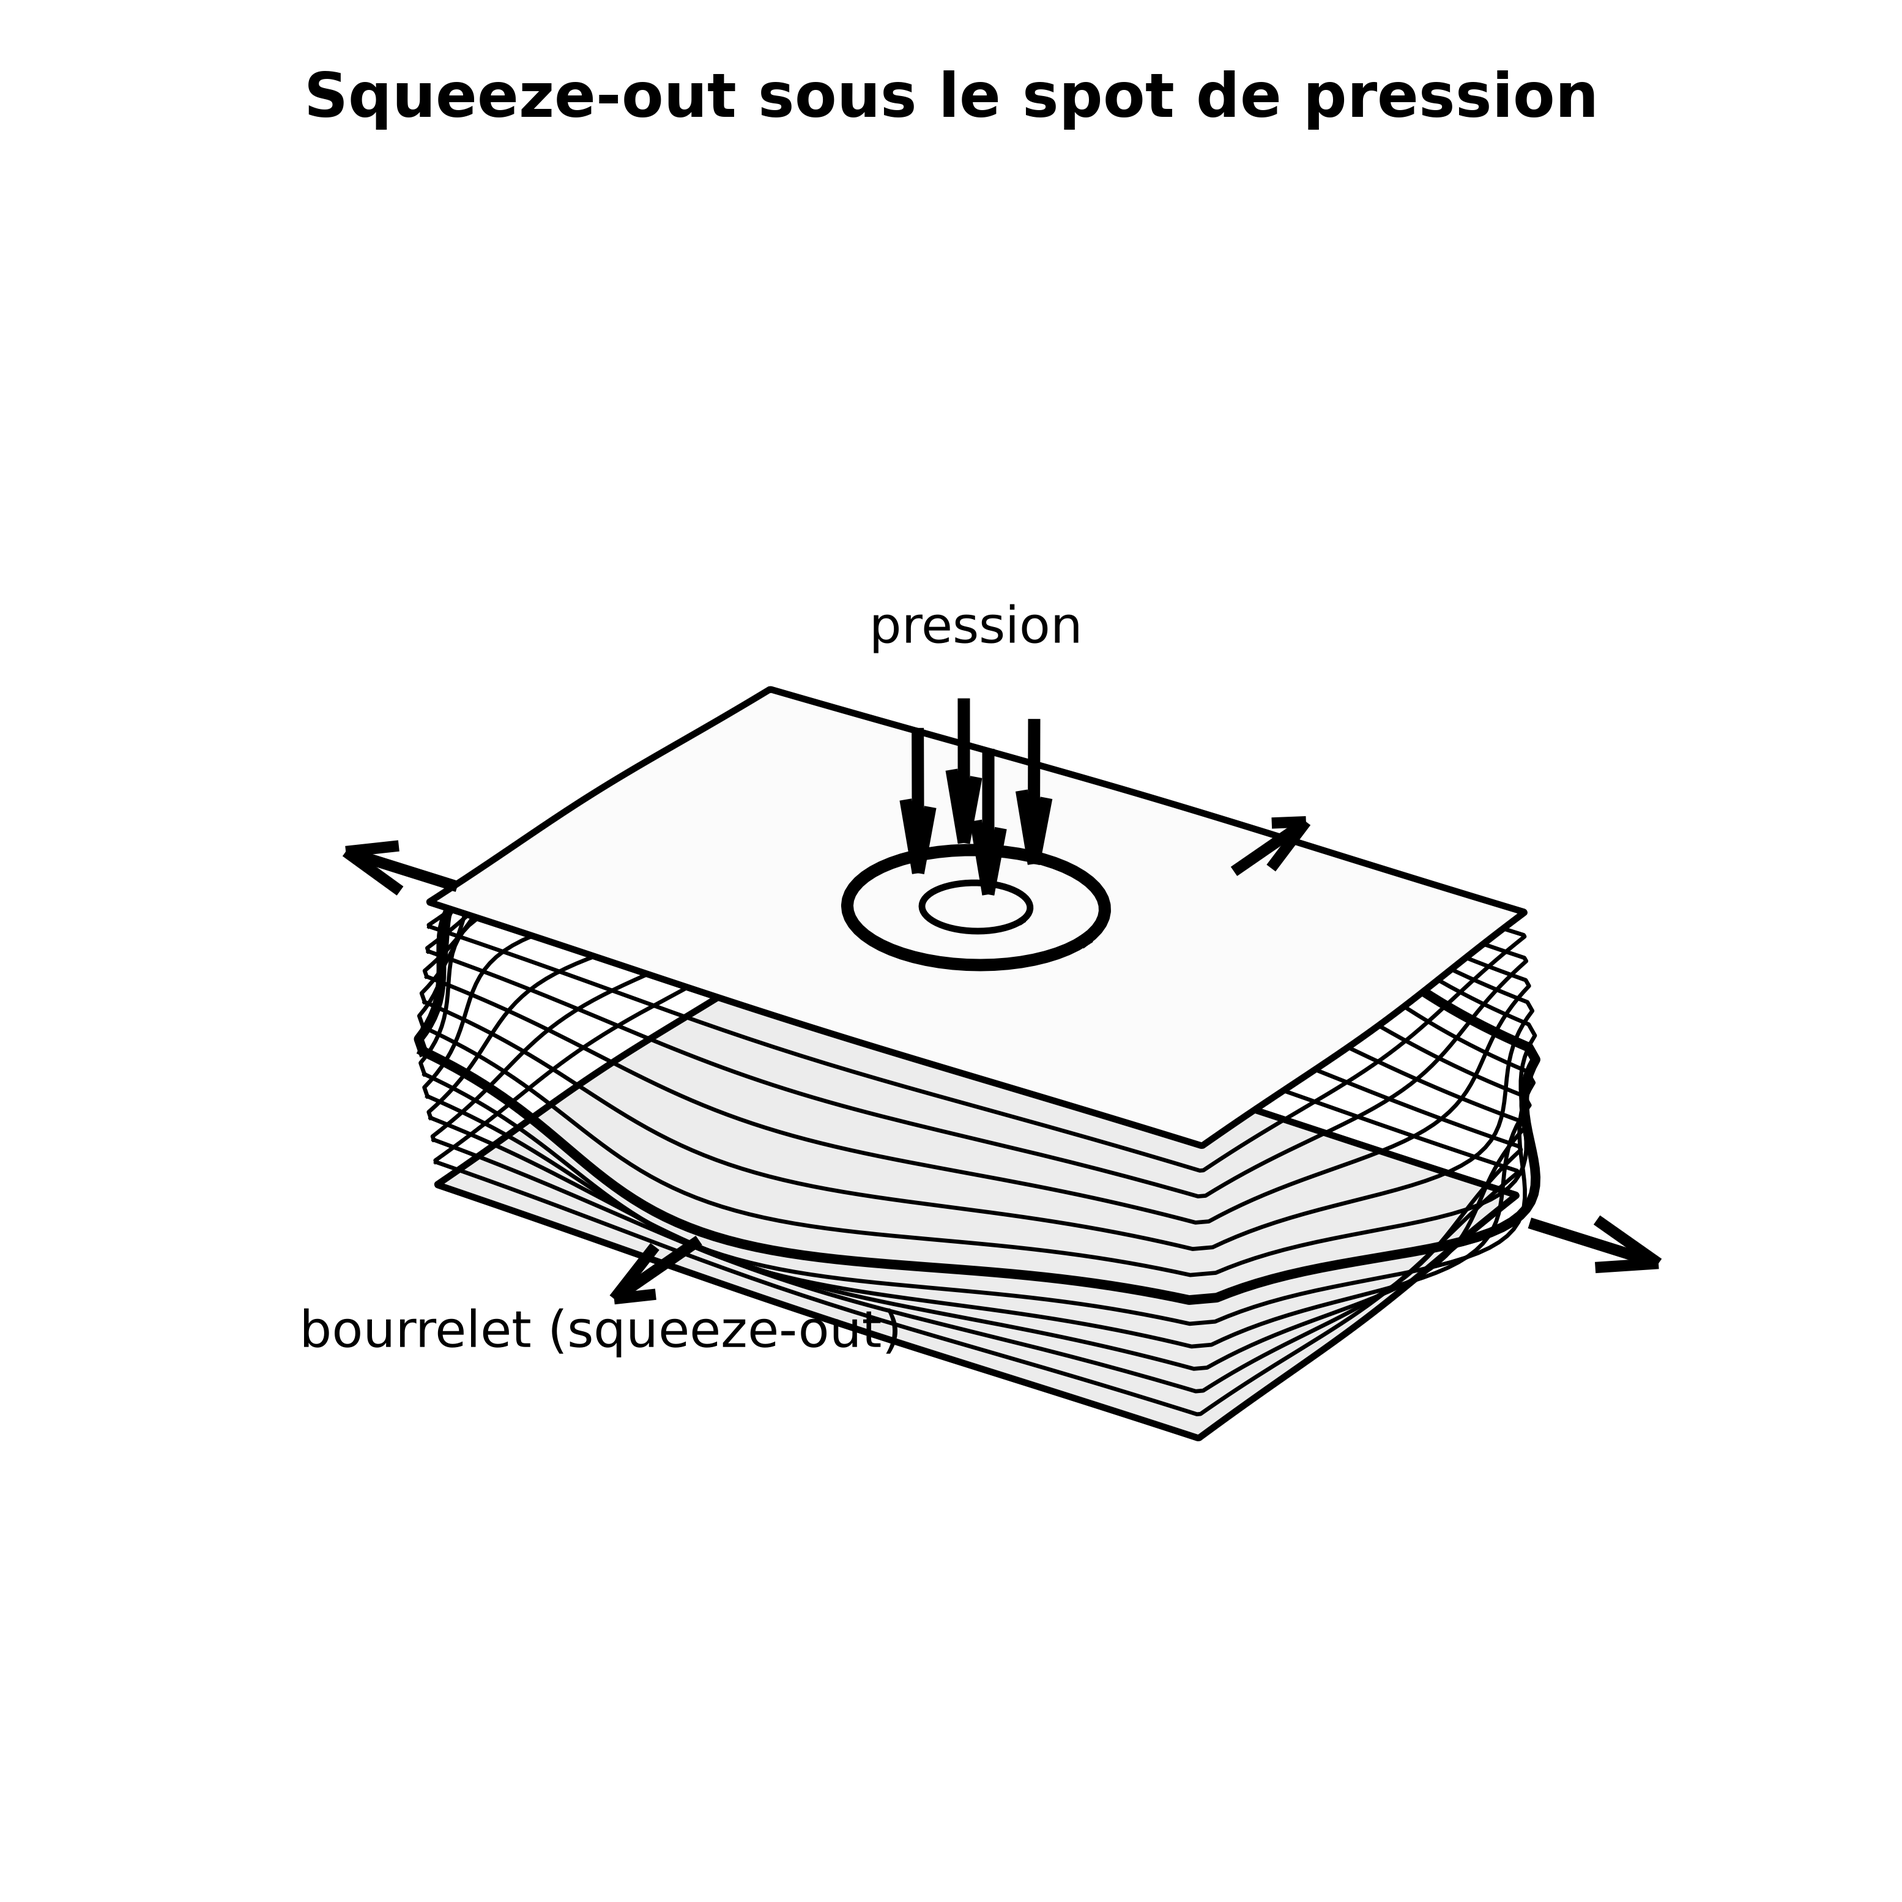
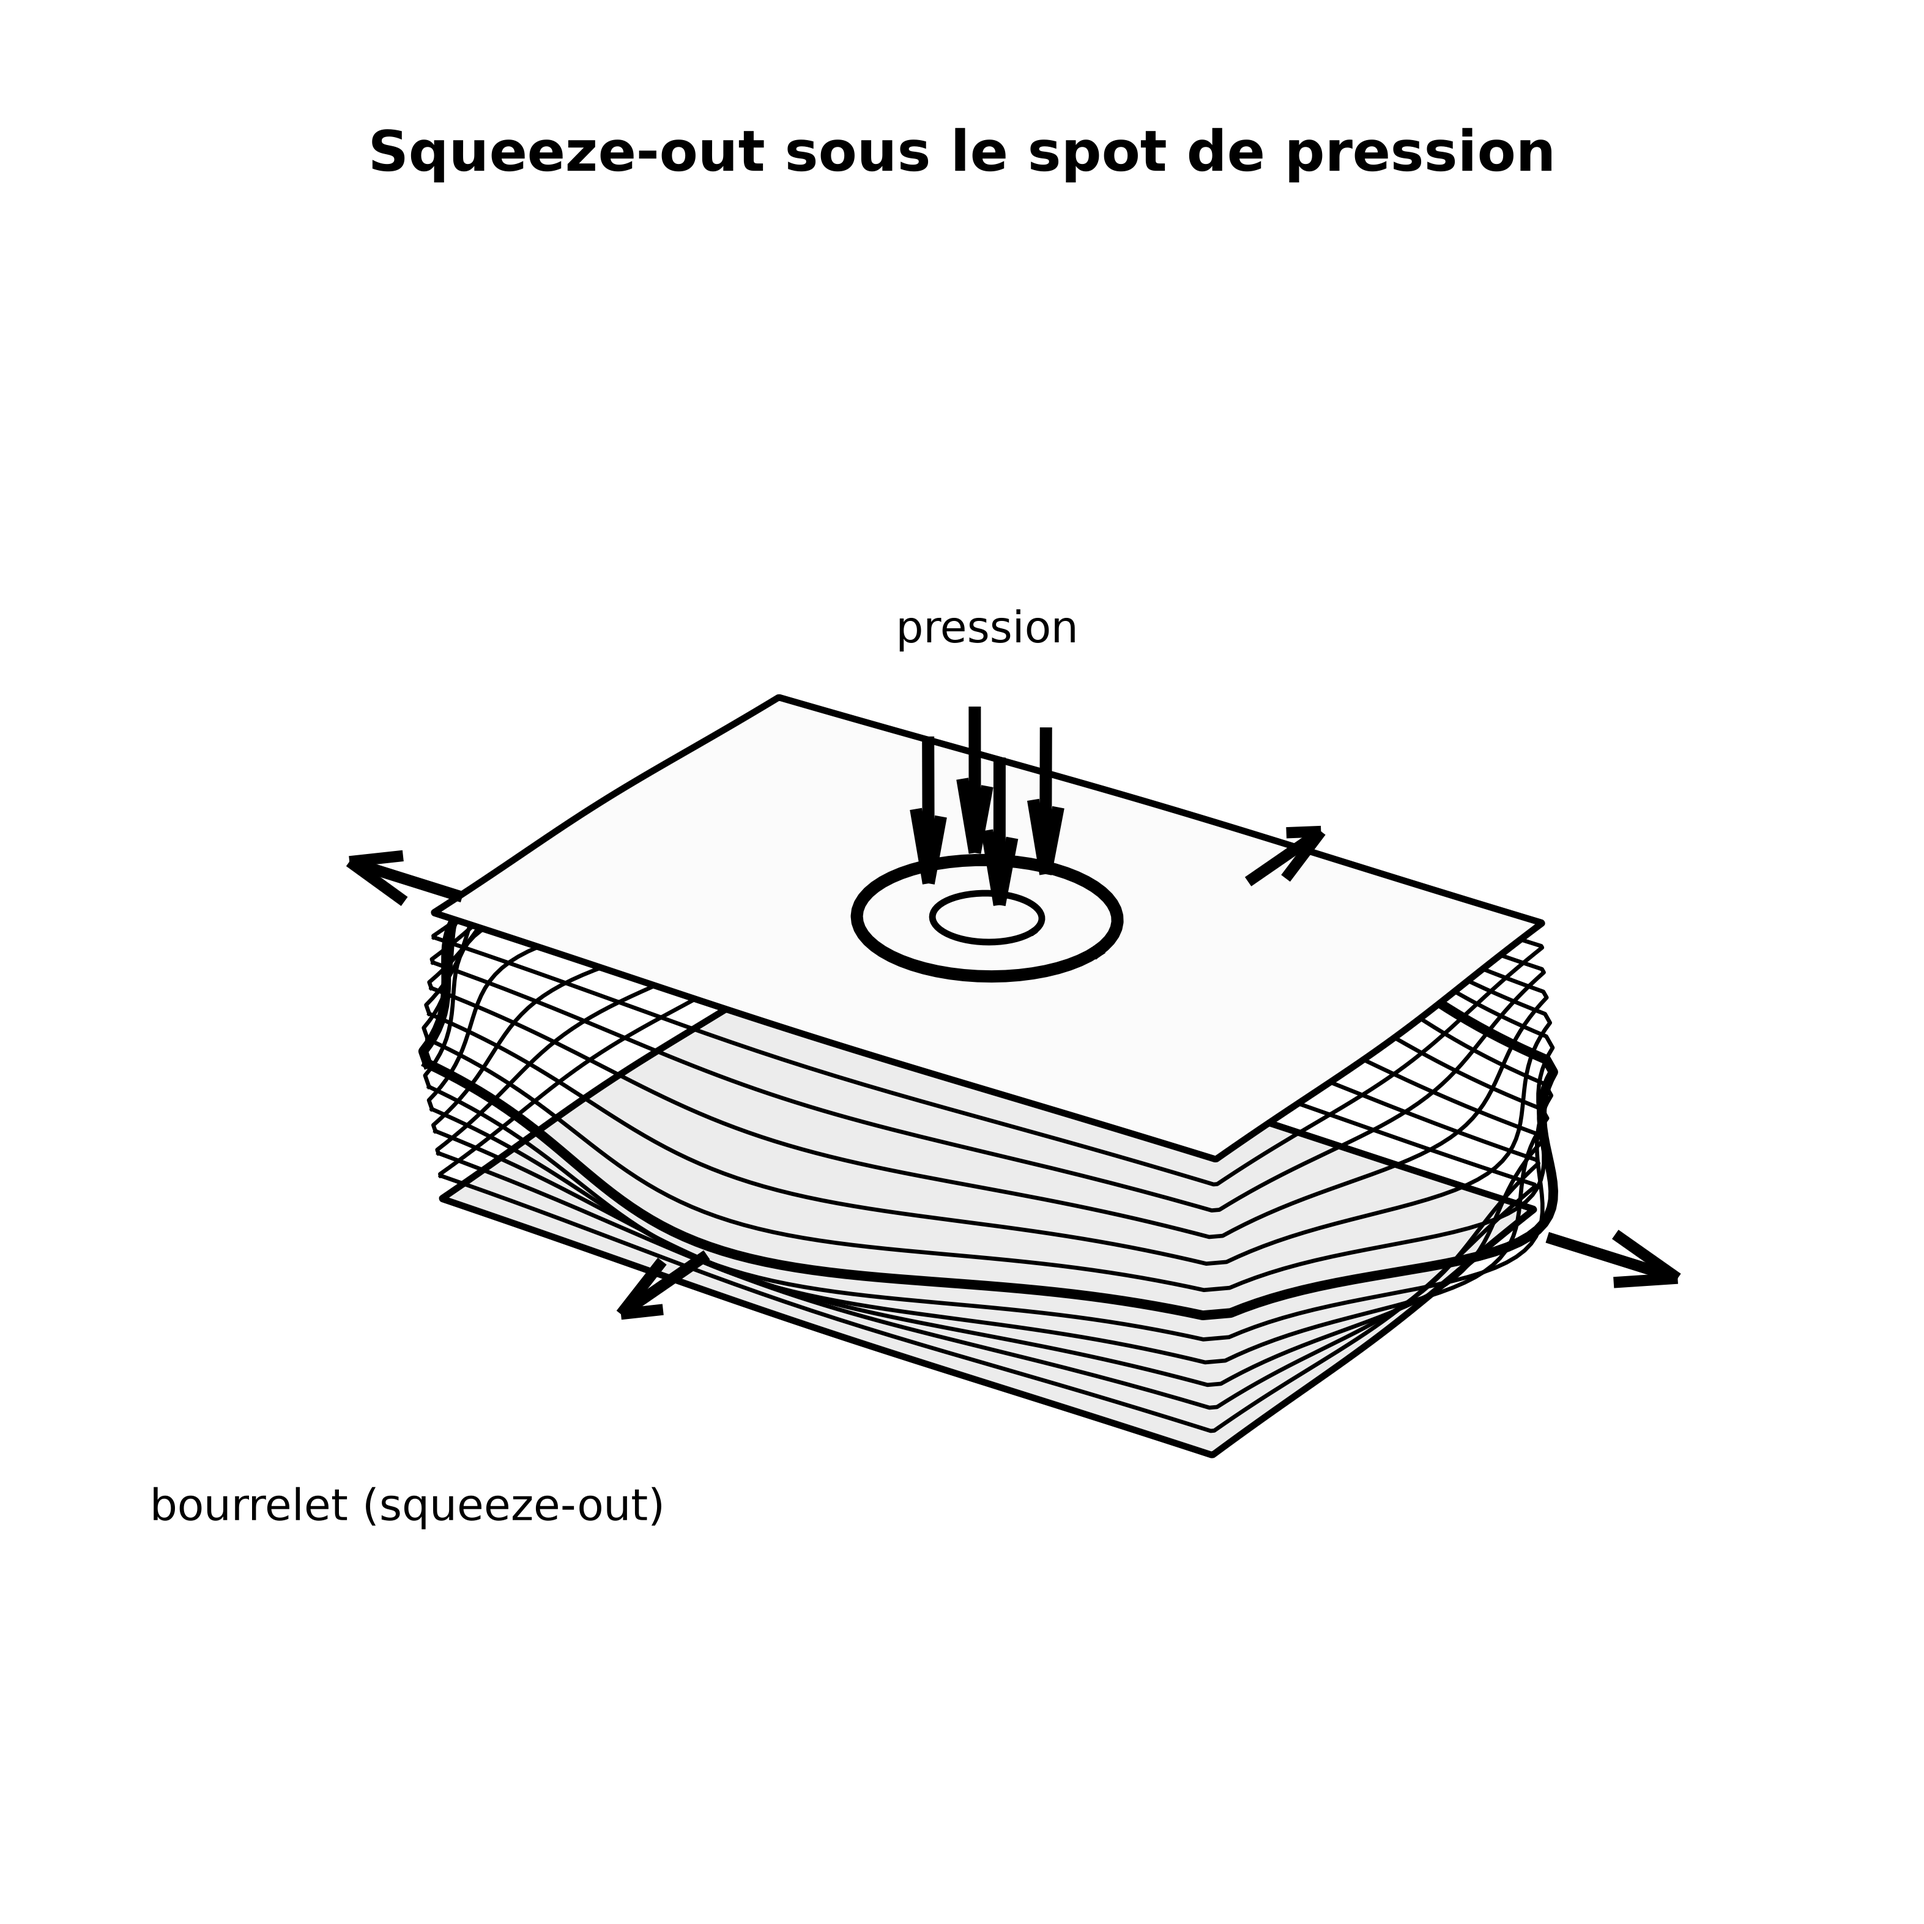
style(figure): texte fiber flow spot au format article (taille reduite, decale)

diff --git a/code/scripts/gen/gen_schema_fiber_flow_spot_3d.py b/code/scripts/gen/gen_schema_fiber_flow_spot_3d.py
@@ -20,7 +20,7 @@ from mpl_toolkits.mplot3d.art3d import Poly3DCollection
 R = next(p for p in Path(__file__).resolve().parents if (p / ".git").exists())
 sys.path.insert(0, str(R / "code" / "scripts"))
 from _style import apply_style, savefig  # noqa: E402
-apply_style()
+apply_style(**{"font.size": 9})
 
 K = "black"
 LX, LY = 12.0, 8.0        # dimensions en plan
@@ -104,13 +104,13 @@ for (ox, oy) in ((-0.55, -0.55), (0.55, -0.55), (-0.55, 0.55), (0.55, 0.55)):
     ax.quiver(XC + ox, YC + oy, ZT + 1.9, 0, 0, -1.5, color=K, lw=2.4,
               arrow_length_ratio=0.5, zorder=10)
 
-# --- texte (simple) ---
-ax.text(XC, YC, ZT + 2.6, "pression", ha="center", va="bottom",
-        fontsize=10, color=K, zorder=11)
-ax.text(XC, -(A + 2.4), ZI, "bourrelet (squeeze-out)", ha="center", va="top",
-        fontsize=10, color=K, zorder=11)
-fig.suptitle("Squeeze-out sous le spot de pression", fontsize=12,
-             fontweight="bold", y=0.90)
+# --- texte (simple, format article) ---
+ax.text(XC, YC, ZT + 2.7, "pression", ha="center", va="bottom",
+        fontsize=8.5, color=K, zorder=11)
+ax.text(XC - 2.0, -(A + 4.0), ZI - 1.6, "bourrelet (squeeze-out)",
+        ha="center", va="top", fontsize=8.5, color=K, zorder=11)
+fig.suptitle("Squeeze-out sous le spot de pression", fontsize=11,
+             fontweight="bold", y=0.88)
 
 ax.set_box_aspect((LX + 2 * A, LY + 2 * A, ZT + 4))
 ax.set_xlim(-A - 1, LX + A + 1)
